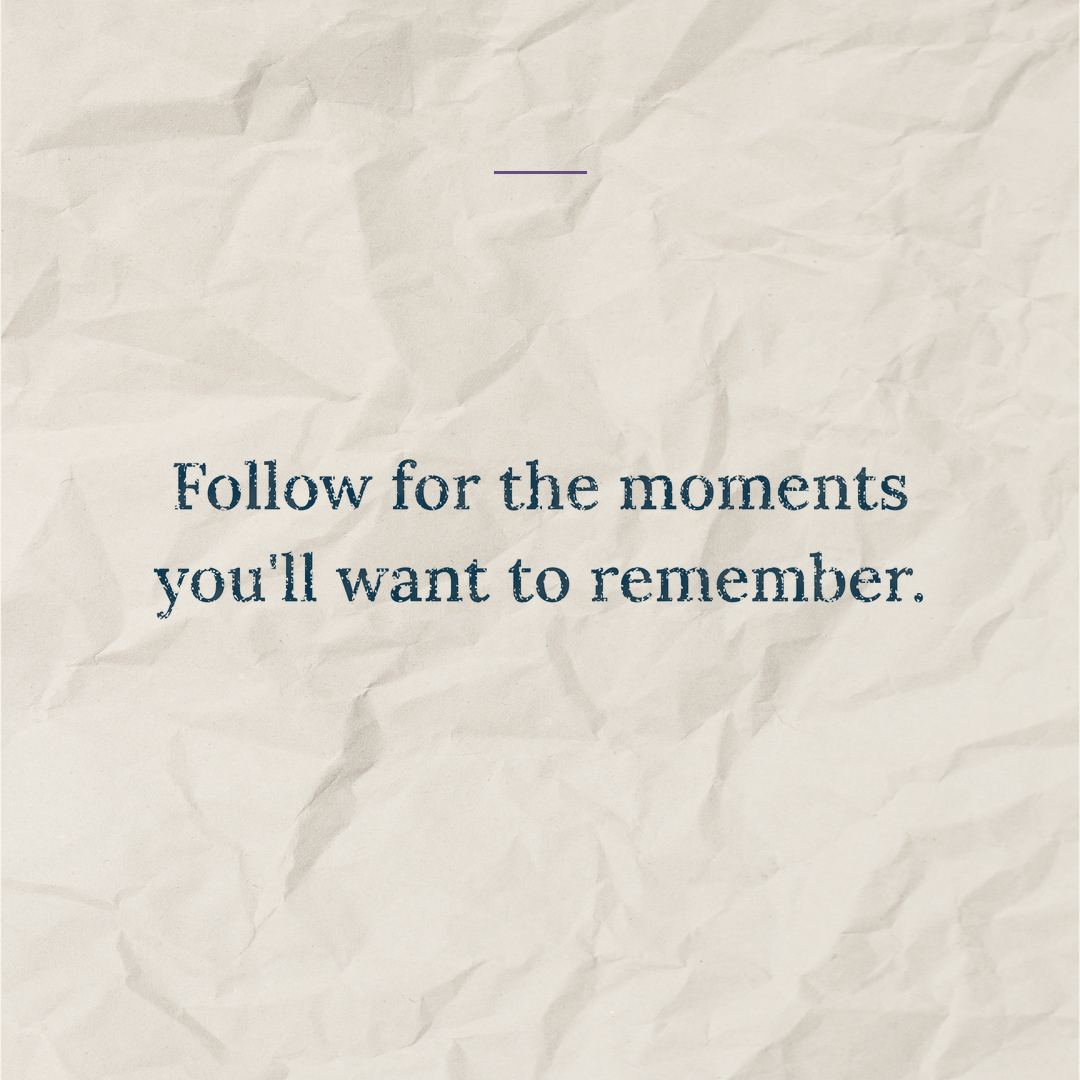
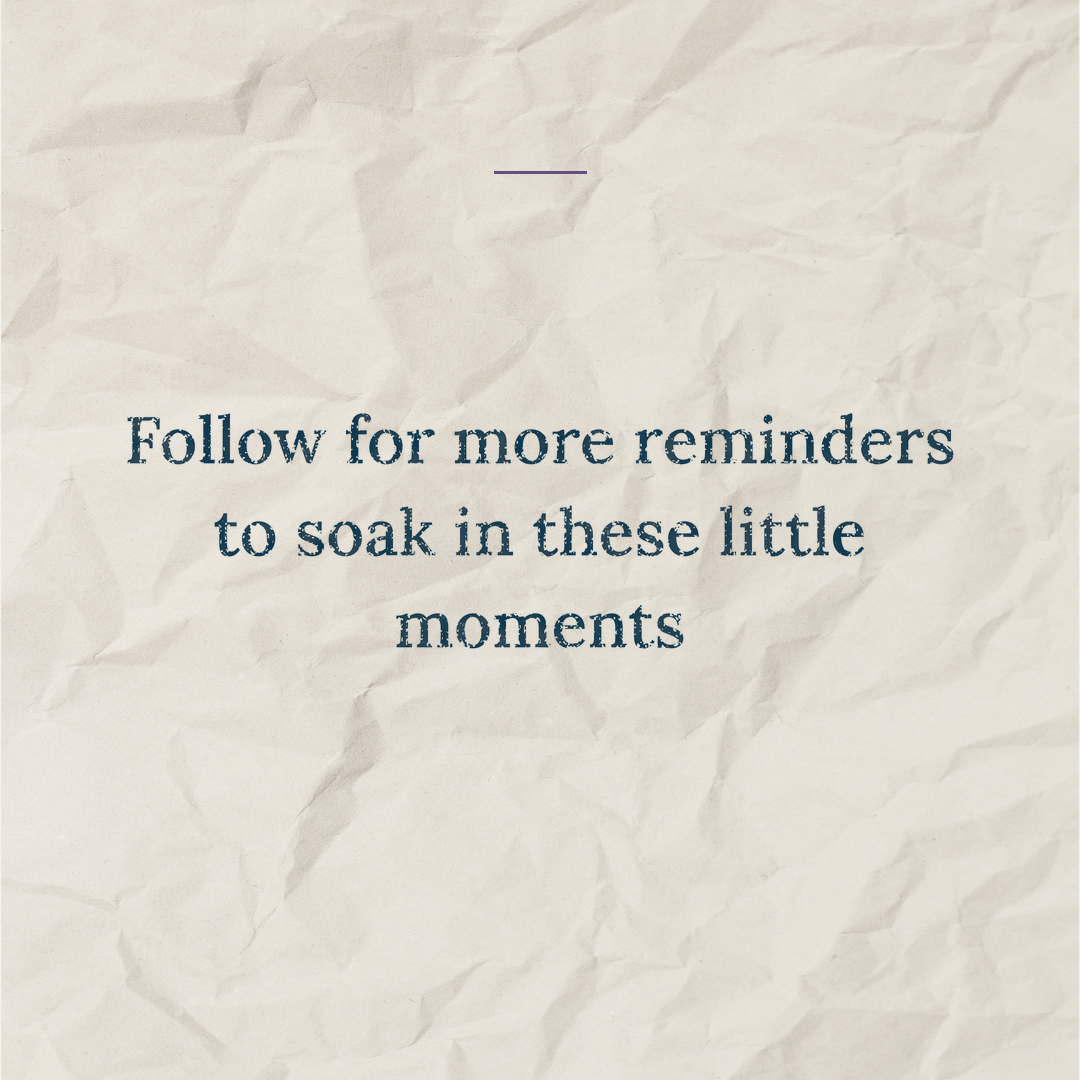
Add 49-newborn-moments-nobody-tells-you (49 - Newborn Moments Nobody Tells You)

Changed region(s): [[0.1222, 0.3667, 0.8861, 0.6111]]

diff --git a/posts/49-newborn-moments-nobody-tells-you/slides.md b/posts/49-newborn-moments-nobody-tells-you/slides.md
@@ -13,6 +13,8 @@ The newborn moments nobody tells you you'll miss…
 05  Being the only person who can read exactly what they need
 
 ## Closer (follow)
-Follow for the moments you'll want to remember.
+Follow for more reminders to soak in these little moments
+
+REVISED 2026-08-16 per Ben's review (closer wording only).
 
 Render with render_keepsake_cover / render_keepsake_items_for_post / render_keepsake_follow, weight 550.
